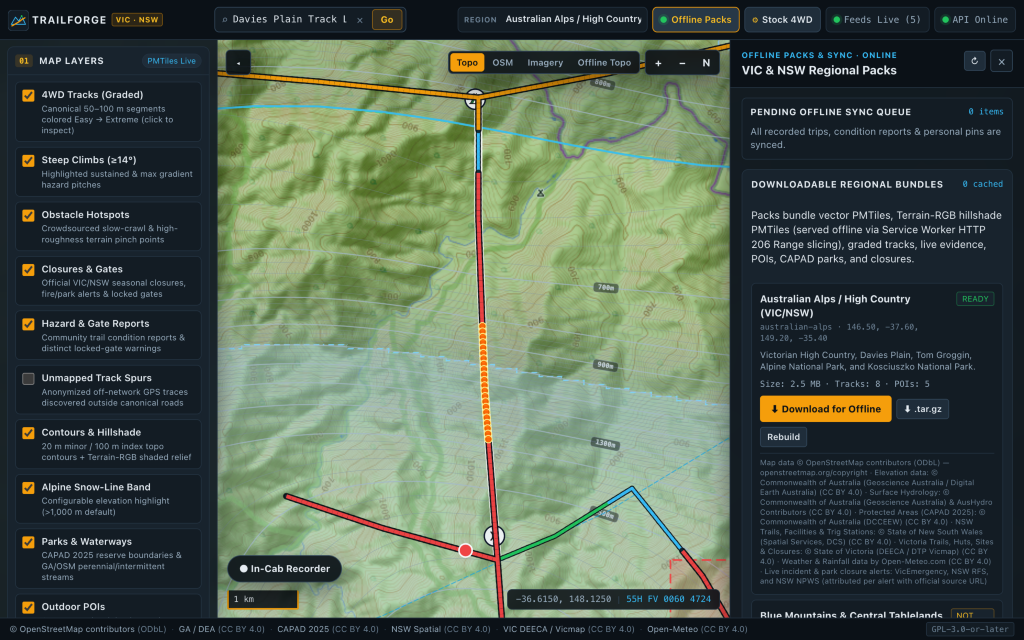
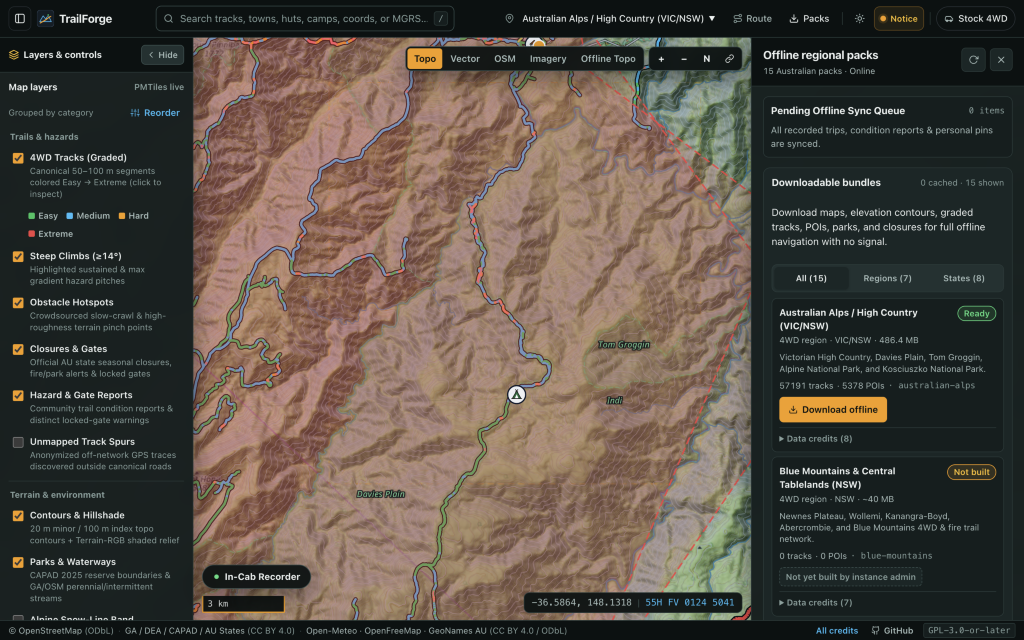
docs(screenshots): refresh README visuals for Daylight Topo and Alpine Dark UI

diff --git a/README.md b/README.md
@@ -34,7 +34,7 @@ Explore Pan-Australia 4WD tracks right now at **[mytrailforge.com](https://mytra
 - **Explainable 2-Stage Track Grading:** Combines a deterministic Day-1 DEM/OSM baseline (`surface`, `tracktype`, slope degrees, waterway crossings, `4wd_only`) with recency-weighted, rig-normalized telemetry and 72-hour rainfall context — exposing every factor, sample count, and obstacle hotspot instead of a black-box score.
 - **Interactive Multi-Track Route Planner & Print Handoff:** Chain tracks with automatic leg orientation, combined 4-grade elevation profile, worst-grade & rig suitability rollup, closure/gate warnings, GPX 1.1 / GeoJSON export, and one-click **[GridForge](https://github.com/jremick/gridforge)** 300 DPI waterproof strip atlas CLI handoff.
 - **Pan-Australia Open Data & 11 Live Closure Feeds:** Conflates OSM with all 8 Australian state trail agencies into deterministic 50–100 m segments alongside CAPAD 2025 parks, click-to-inspect emergency/park incidents, and community hazard/gate reports with one-click OSM access fixes.
-- **Offline-First PWA, Vector Basemaps & 15 Regional Packs:** Streaming `< 300 MB` RAM offline packs (`PMTiles` HTTP `206` byte-range serving + normalized `sharded_v2` gzipped track shards for 50k+ track regions in IndexedDB), self-hosted Noto Sans glyphs, Pan-AU places/regions/highways & park labels, optional split-stack OpenMapTiles vector basemap (`TRAILFORGE_VECTOR_BASEMAP_URL`), and an in-cab GPS + 50 Hz IMU / 4WD clinometer recorder with one-tap Backtrack.
+- **Offline-First PWA, Dual Themes & 15 Regional Packs:** Daylight Topo (high-sunlight outdoor palette) and Alpine Dark (night-cab) themes, draggable mobile bottom sheets, streaming `< 300 MB` RAM offline packs (`PMTiles` HTTP `206` byte-range serving + normalized `sharded_v2` gzipped track shards for 50k+ track regions in IndexedDB), self-hosted Noto Sans glyphs, Pan-AU places/regions/highways & park labels, optional split-stack OpenMapTiles vector basemap (`TRAILFORGE_VECTOR_BASEMAP_URL`), and an in-cab GPS + 50 Hz IMU / 4WD clinometer recorder with one-tap Backtrack.
 - **Privacy-by-Design Telemetry & Pluggable Map-Matching:** Enforces mandatory `≥ 250 m` start/end buffer trimming on GPS + IMU uploads, stores zero `user_id`/`trip_id` on public aggregates, matches traces with an in-PostGIS HMM by default, and supports an optional **Valhalla** sidecar ([`deploy/valhalla.md`](deploy/valhalla.md)).
 - **Native AI / MCP Server & Interactive Explorer:** Built-in stateless Streamable HTTP MCP server (`18` tools, Pillow PNG trail/elevation visuals, interactive SEP-1865 MCP App) with self-hosted **OAuth 2.1 + PKCE** & Personal Access Tokens for ChatGPT, Claude, Antigravity, Gemini, and Cursor ([`docs/AI_INTEGRATION.md`](docs/AI_INTEGRATION.md)).
 - **Lean Self-Hosting & ODbL-Clean Architecture:** Runs in **`~350 MiB` idle RAM** (zero Redis/Kafka, zero PyQGIS) with multi-arch (`amd64`/`arm64`) GHCR images, strict 3-tier OSM ODbL table separation, and a hardened ~$5–$10/mo Railway + Cloudflare Pages/R2/WAF deploy kit.
@@ -43,12 +43,12 @@ Explore Pan-Australia 4WD tracks right now at **[mytrailforge.com](https://mytra
 
 ## Screenshots
 
-![TrailForge Pan-Australia 4WD Map and Track Inspector](docs/images/trailforge-hero.png)
+![TrailForge Daylight Topo Map, Grouped Layers and Track Inspector](docs/images/trailforge-hero.png)
 
-| **Multi-Track Route Planner & GridForge Handoff** | **Rig Suitability, Closures & Gate Warnings** |
+| **Multi-Track Route Planner & GridForge Handoff (Alpine Dark)** | **Rig Suitability & Live Agency Closures (Daylight Topo)** |
 | :---: | :---: |
 | ![Interactive Multi-Track Route Planner](docs/images/trailforge-route-planner.png) | ![Rig Suitability, Closures and Gate Warnings](docs/images/trailforge-rig-closures.png) |
-| **Streaming Offline Regional Packs** | **In-Cab PWA Recorder & Backtrack** |
+| **Streaming Offline Regional Packs (Alpine Dark)** | **In-Cab PWA Recorder, Clinometer & Backtrack** |
 | ![Streaming Offline Regional Packs](docs/images/trailforge-offline-packs.png) | ![In-Cab PWA Breadcrumb Recorder](docs/images/trailforge-recorder.png) |
 
 ---
